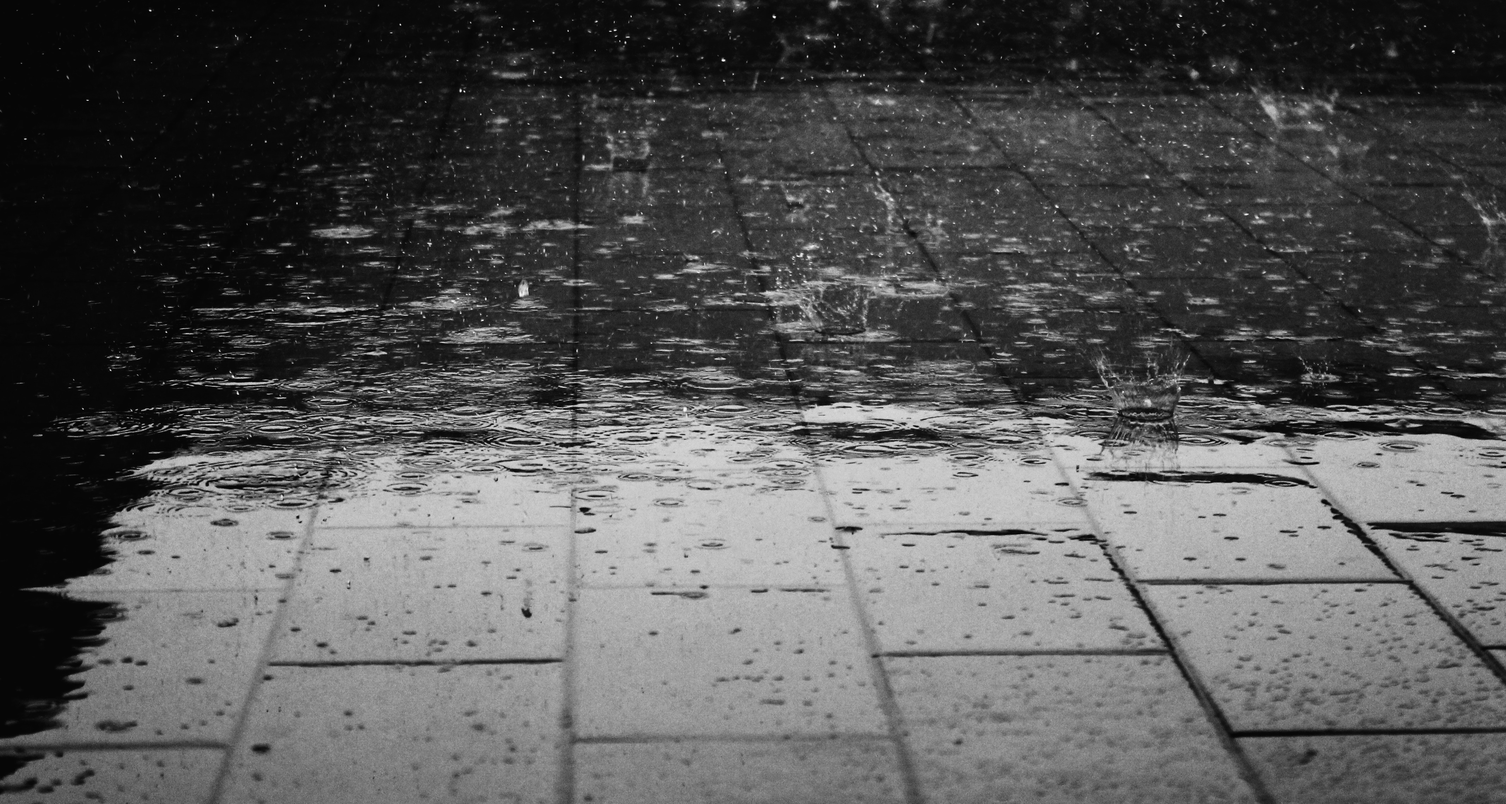
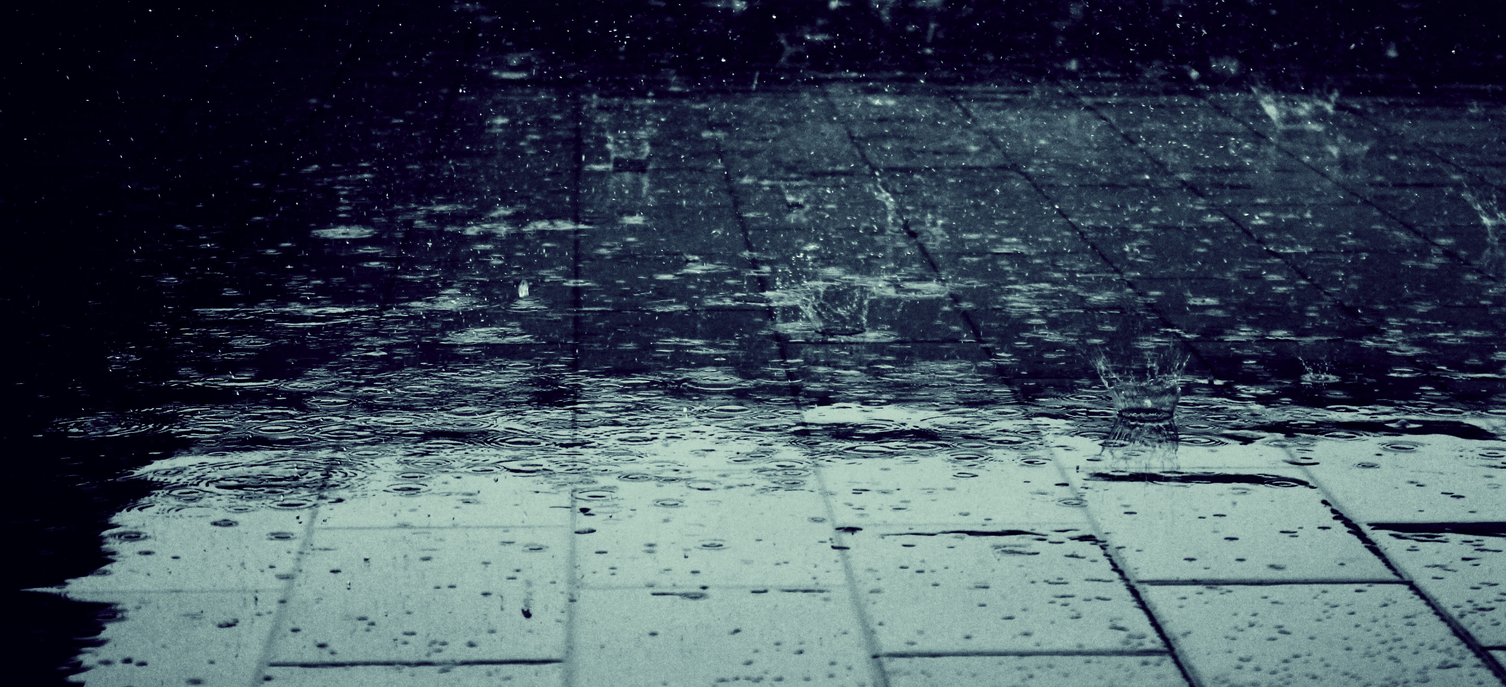
Puddle image edited. Images no longer default to twitter. Support for custom images through upploading.

diff --git a/puddle/index.php b/puddle/index.php
@@ -17,23 +17,38 @@
     </head>
 
     <body>
-        <?php $path = explode('/',$_SERVER["REQUEST_URI"]);
-        if($is_home) { ?>
-            <div id="background" style="background: url(/templates/puddle/puddle.jpg) no-repeat center center fixed;"></div>
+        <?php $path = explode('/',$_SERVER["REQUEST_URI"]); //the current path
+            $puddle_image = '/templates/puddle/puddle.jpg'; //the default
+            $puddle_main_image_exists = file_exists('./posts/puddle.jpg'); //with the dot, because it has to be an absolute path
+            $puddle_post_image_exists = file_exists($image); //Post image already defaults to profile, so not that
+            $puddle_main_image = '/posts/puddle.jpg'; //without the dot, because the CSS won't work with it
+            if($puddle_main_image_exists) {
+                $puddle_image = $puddle_main_image; //if we have a post image, override it with that
+            }
+            $puddle_is_home = (count(array_filter($path)) == 0); //if there's nothing in the exploded path
+        if($puddle_is_home) { ?>
+            <div id="background" style="background: url(<?php echo($puddle_image) ?>) no-repeat center center fixed;"></div>
             <div id="hero">
                 <div id="hero-content">
                     <h1><?php echo($intro_title); ?></h1>
                 </div>
             </div>
-        <?php } else if($path[1] == "category") { ?>
-            <div id="background" style="background: url(/templates/puddle/puddle.jpg) no-repeat center center fixed;"></div>
+        <?php } else if($path[1] == "category") { //if the first directory is category ?>
+            <div id="background" style="background: url(<?php echo($puddle_image) ?>) no-repeat center center fixed;"></div>
             <div id="hero">
                 <div id="hero-content">
                     <h1><?php echo($post_category); ?></h1>
                 </div>
             </div>
-        <?php } else { ?>
+        <?php } else if($puddle_post_image_exists) { //if it's an image page ?>
             <div id="background" style="background: url(<?php echo($post_image)?>) no-repeat center center fixed;"></div>
+            <div id="hero">
+                <div id="hero-content">
+                    <h1><?php echo($post_title); ?></h1>
+                </div>
+            </div>
+        <?php } else { //if it's a post with no image ?>
+            <div id="background" style="background: url(<?php echo($puddle_image) ?>) no-repeat center center fixed;"></div>
             <div id="hero">
                 <div id="hero-content">
                     <h1><?php echo($post_title); ?></h1>

diff --git a/issues.md b/issues.md
@@ -1,0 +1,5 @@
+1.    Thumbnail collapses on small screen sizes (linked to fixed-width span problem.)
+2.    The email and twitter spans have fixed widths.
+3.    There's no easy way to change your background.
+4.    Add 404 page.
+5.    Get rid of unecessary `Simple` styles.
